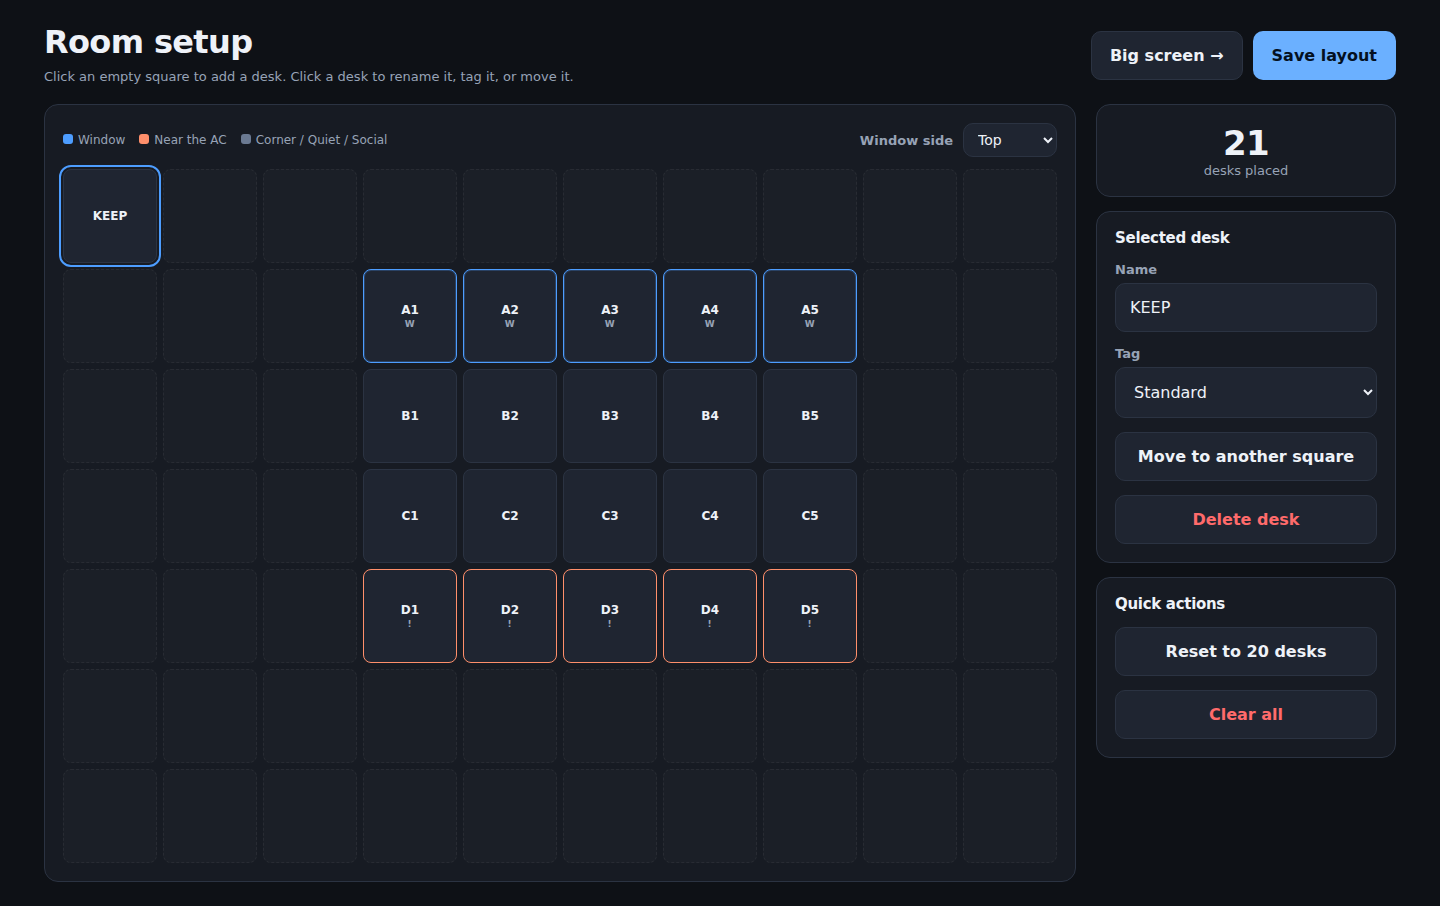
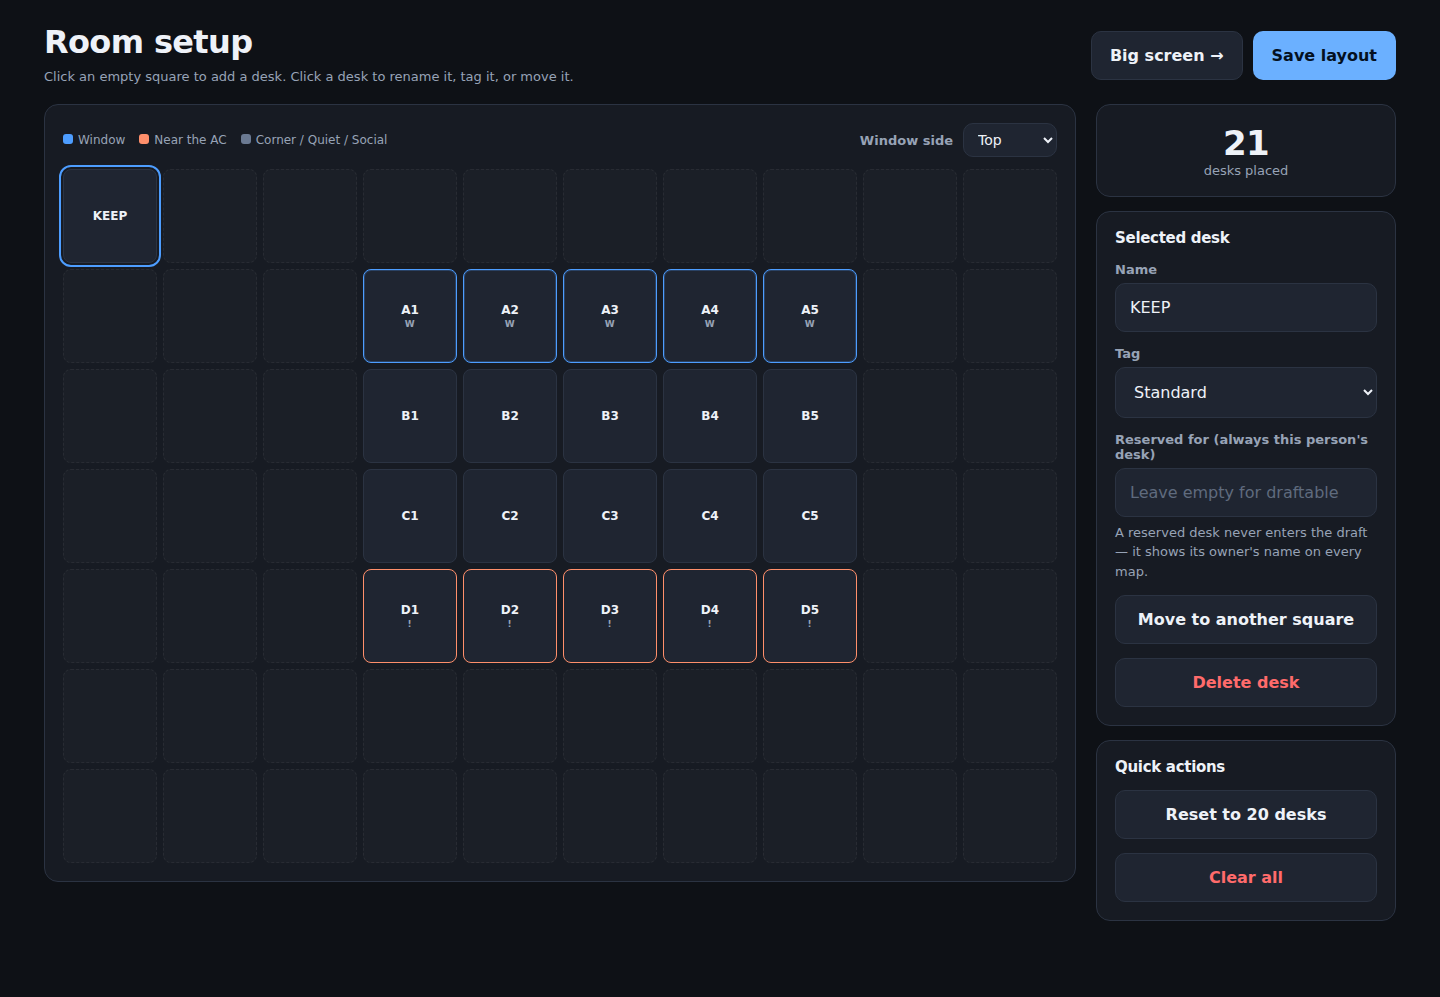
Add a manager passcode and permanently reserved desks
Passcode: with ADMIN_PASSCODE set on the server, saving the layout,
creating rooms, and starting/stopping rehearsal bots require an
x-admin-passcode header (timing-safe compare, 401 with distinct
missing/wrong codes). Unset means open, so LAN and laptop installs stay
frictionless. The setup, host and simulate pages share an adminFetch
helper that prompts once on a 401 and remembers the passcode for the
browser session. Everything a player or the projector needs — joining,
playing, reading layout/room state, the QR — never requires it.

Reserved desks: a desk given a 'Reserved for' name in the setup editor is
permanently that person's. It never enters the draft pool, is excluded
from the seat count and the capacity check, and is drawn occupied in its
owner's name on the editor, the live draft map, the final map, the
exported PNG (with a reserved count in the footer) and the copyable list.

Tested: passcode suite against a server with ADMIN_PASSCODE set (locked
without, distinct wrong-vs-missing, open with, gameplay untouched), and a
reserved-desk draft where the reserved desks are never offered, never
assigned, and capacity is judged on available desks. 199 backend and 103
browser tests green, plus a visual end-to-end run with A5 and C5 reserved.

Claude-Session: https://claude.ai/code/session_019qPQdepLXhdDK3MuUzUKu8

diff --git a/server/index.js b/server/index.js
@@ -7,8 +7,9 @@ import { WebSocketServer } from 'ws';
 import QRCode from 'qrcode';
 import { startBots, stopBots, status as simStatus } from './sim.js';
 import { loadLayout, saveLayout, sanitizeLayout, defaultLayout, GRID, PERKS } from './store.js';
+import { timingSafeEqual } from 'node:crypto';
 import {
-  createRoom, getRoom, addPlayer, removePlayer, broadcast, publicState,
+  createRoom, getRoom, addPlayer, removePlayer, broadcast, publicState, availableDesks,
   normalizeName, nameTaken, sweepRooms, MAX_PLAYERS,
   startSprint, endSprint, recordAnswer, currentQuestion, pendingPlayers,
   startDraft, applyPick, skipTurn
@@ -29,6 +30,26 @@ const MIME = {
 // A room's control token. Whoever created the room drives it; a player who
 // guesses the URL of the host screen cannot kick people out of the lobby.
 const hostTokens = new Map(); // code -> token
+
+// Optional passcode for the manager's actions (saving the layout, creating
+// rooms, driving bots). Unset = open, which is right for a laptop on a LAN;
+// set it when the app lives on a public domain.
+const ADMIN_PASSCODE = process.env.ADMIN_PASSCODE || '';
+
+function checkAdmin(req) {
+  if (!ADMIN_PASSCODE) return 'ok';
+  const given = String(req.headers['x-admin-passcode'] || '');
+  if (!given) return 'passcode_required';
+  const a = Buffer.from(given), b = Buffer.from(ADMIN_PASSCODE);
+  return a.length === b.length && timingSafeEqual(a, b) ? 'ok' : 'bad_passcode';
+}
+
+function requireAdmin(req, res) {
+  const verdict = checkAdmin(req);
+  if (verdict === 'ok') return true;
+  send(res, 401, { error: verdict });
+  return false;
+}
 
 const server = createServer(async (req, res) => {
   try {
@@ -67,6 +88,7 @@ async function handleApi(req, res, url) {
     return send(res, 200, { layout: defaultLayout() });
   }
   if (url.pathname === '/api/layout' && req.method === 'POST') {
+    if (!requireAdmin(req, res)) return;
     const body = await readBody(req);
     return send(res, 200, { layout: await saveLayout(sanitizeLayout(body)) });
   }
@@ -94,6 +116,7 @@ async function handleApi(req, res, url) {
 
   // Rehearsal bots — lets the manager run the whole game solo before game day.
   if (url.pathname === '/api/sim' && req.method === 'POST') {
+    if (!requireAdmin(req, res)) return;
     const body = await readBody(req);
     const room = getRoom(body.code);
     if (!room) return send(res, 404, { error: 'no_such_room' });
@@ -107,6 +130,7 @@ async function handleApi(req, res, url) {
     return send(res, 200, startBots({ port: PORT, code: room.code, count: Math.min(count, space) }));
   }
   if (url.pathname === '/api/sim' && req.method === 'DELETE') {
+    if (!requireAdmin(req, res)) return;
     const body = await readBody(req);
     const room = getRoom(body.code);
     if (!room) return send(res, 404, { error: 'no_such_room' });
@@ -119,6 +143,7 @@ async function handleApi(req, res, url) {
   }
 
   if (url.pathname === '/api/room' && req.method === 'POST') {
+    if (!requireAdmin(req, res)) return;
     const layout = await loadLayout();
     if (layout.desks.length === 0) return send(res, 400, { error: 'no_desks' });
     const room = createRoom(structuredClone(layout));
@@ -290,7 +315,7 @@ function handleHostAction(ws, room, msg) {
 
   if (msg.type === 'host:startDraft') {
     if (room.phase !== 'reveal') return reply(ws, { type: 'error', code: 'not_ready_to_draft' });
-    if (room.layout.desks.length < room.players.size) {
+    if (availableDesks(room.layout).length < room.players.size) {
       return reply(ws, { type: 'error', code: 'not_enough_desks' });
     }
     startDraft(room);

diff --git a/public/setup.js b/public/setup.js
@@ -1,5 +1,7 @@
 // Layout editor. The whole layout lives in one object; every action mutates it
 // and re-renders. At 70 cells that is far cheaper than tracking diffs.
+import { adminFetch } from '/admin.js';
+
 const $ = id => document.getElementById(id);
 
 let grid = { cols: 10, rows: 7 };
@@ -48,6 +50,15 @@ function wireEvents() {
     desk.perk = e.target.value;
     markDirty();
     render();
+  });
+
+  $('deskReserved').addEventListener('input', e => {
+    const desk = selected();
+    if (!desk) return;
+    const name = e.target.value.trim().slice(0, 24);
+    if (name) desk.reservedFor = name; else delete desk.reservedFor;
+    markDirty();
+    renderMap();
   });
 
   $('move').addEventListener('click', () => {
@@ -143,11 +154,15 @@ function renderMap() {
         cells.push(`<div class="cell empty" data-r="${r}" data-c="${c}"></div>`);
         continue;
       }
-      const cls = ['cell', 'desk', desk.id === selectedId ? 'selected' : '', desk.id === movingId ? 'moving' : ''];
+      const cls = ['cell', 'desk', desk.id === selectedId ? 'selected' : '', desk.id === movingId ? 'moving' : '',
+                   desk.reservedFor ? 'reserved' : ''];
       const short = perks[desk.perk]?.short || '';
+      const sub = desk.reservedFor
+        ? `<span class="perk">${esc(desk.reservedFor)}</span>`
+        : short ? `<span class="perk">${esc(short)}</span>` : '';
       cells.push(
-        `<div class="${cls.join(' ')}" data-r="${r}" data-c="${c}" data-perk="${desk.perk}" title="${esc(perks[desk.perk]?.label || '')}">
-           <span>${esc(desk.name)}</span>${short ? `<span class="perk">${esc(short)}</span>` : ''}
+        `<div class="${cls.join(' ')}" data-r="${r}" data-c="${c}" data-perk="${desk.perk}" title="${esc(desk.reservedFor ? `Reserved for ${desk.reservedFor}` : perks[desk.perk]?.label || '')}">
+           <span>${esc(desk.name)}</span>${sub}
          </div>`
       );
     }
@@ -168,6 +183,7 @@ function renderSidebar() {
   if (desk) {
     if ($('deskName').value !== desk.name) $('deskName').value = desk.name;
     $('deskPerk').value = desk.perk;
+    if ($('deskReserved').value !== (desk.reservedFor || '')) $('deskReserved').value = desk.reservedFor || '';
     $('move').textContent = movingId ? 'Cancel move' : 'Move to another square';
   }
 }
@@ -180,7 +196,7 @@ function markDirty() {
 async function save() {
   $('save').disabled = true;
   try {
-    const res = await fetch('/api/layout', {
+    const res = await adminFetch('/api/layout', {
       method: 'POST',
       headers: { 'content-type': 'application/json' },
       body: JSON.stringify(layout)

diff --git a/public/mapimage.js b/public/mapimage.js
@@ -13,6 +13,7 @@ const COLORS = {
   ink: '#eef2f8', dim: '#97a3b6',
   chosen: '#253044', chosenLine: '#3d4a63',
   auto: '#2a2733', autoLine: '#4a4358',
+  reserved: '#2c2838', reservedLine: '#7a6f96',
   window: '#4d9dff', meh: '#ff8f6b', accent: '#4d9dff'
 };
 
@@ -49,10 +50,11 @@ export function drawMap(canvas, layout, assignments) {
   for (const desk of desks) {
     const x = PAD + (desk.c - b.minC) * (CELL + GAP);
     const y = HEADER + (desk.r - b.minR) * (CELL + GAP);
-    const seat = seatOf.get(desk.id);
+    const seat = desk.reservedFor ? { name: desk.reservedFor, reserved: true } : seatOf.get(desk.id);
 
-    ctx.fillStyle = seat ? (seat.auto ? COLORS.auto : COLORS.chosen) : COLORS.panel;
-    ctx.strokeStyle = desk.perk === 'window' ? COLORS.window
+    ctx.fillStyle = seat ? (seat.reserved ? COLORS.reserved : seat.auto ? COLORS.auto : COLORS.chosen) : COLORS.panel;
+    ctx.strokeStyle = seat?.reserved ? COLORS.reservedLine
+      : desk.perk === 'window' ? COLORS.window
       : desk.perk === 'meh' ? COLORS.meh
       : seat ? (seat.auto ? COLORS.autoLine : COLORS.chosenLine) : COLORS.line;
     ctx.lineWidth = 2;
@@ -74,7 +76,11 @@ export function drawMap(canvas, layout, assignments) {
 
   ctx.fillStyle = COLORS.dim;
   ctx.font = '500 15px Inter, system-ui, sans-serif';
-  ctx.fillText(`${assignments.length} seated · window side: ${layout.windowSide}`, PAD, height - 22);
+  const reserved = desks.filter(d => d.reservedFor).length;
+  ctx.fillText(
+    `${assignments.length} seated${reserved ? ` · ${reserved} reserved` : ''} · window side: ${layout.windowSide}`,
+    PAD, height - 22
+  );
 
   return canvas;
 }
@@ -122,6 +128,7 @@ export function seatingList(layout, assignments) {
     .slice()
     .sort((a, b) => a.r - b.r || a.c - b.c)
     .map(d => {
+      if (d.reservedFor) return `${d.name}\t${d.reservedFor} (reserved)`;
       const seat = seatOf.get(d.id);
       return `${d.name}\t${seat ? seat.name : '—'}`;
     })

diff --git a/server/room.js b/server/room.js
@@ -187,7 +187,7 @@ export function startDraft(room) {
     order,
     index: 0,
     assignments: new Map(),   // deskId -> { playerId, name, auto }
-    autoTail: autoTailCount(room.layout.desks.length, order.length),
+    autoTail: autoTailCount(availableDesks(room.layout).length, order.length),
     current: null,
     timer: null
   };
@@ -196,8 +196,11 @@ export function startDraft(room) {
   return room.draft;
 }
 
+// A desk with a permanent owner never enters the game.
+export const availableDesks = layout => layout.desks.filter(d => !d.reservedFor);
+
 export const remainingDeskIds = room =>
-  room.layout.desks.filter(d => !room.draft.assignments.has(d.id)).map(d => d.id);
+  availableDesks(room.layout).filter(d => !room.draft.assignments.has(d.id)).map(d => d.id);
 
 // Starts the next person's turn, or closes the draft out when the only people
 // left are the tail who have nothing meaningful to choose between.
@@ -318,7 +321,7 @@ export function publicState(room) {
     code: room.code,
     phase: room.phase,
     layout: room.layout,
-    seatCount: room.layout.desks.length,
+    seatCount: availableDesks(room.layout).length,
     sprint: room.phase === 'sprint' ? sprintSummary(room) : null,
     results: room.results,
     questionTotal: room.sprint ? room.sprint.questions.length : null,

diff --git a/public/simulate.js b/public/simulate.js
@@ -1,4 +1,6 @@
 // Rehearsal control panel: start/stop bots and watch what they're up to.
+import { adminFetch } from '/admin.js';
+
 const $ = id => document.getElementById(id);
 
 let pollTimer = null;
@@ -26,7 +28,7 @@ async function start() {
 
   $('startBtn').disabled = true;
   try {
-    const res = await fetch('/api/sim', {
+    const res = await adminFetch('/api/sim', {
       method: 'POST',
       headers: { 'content-type': 'application/json' },
       body: JSON.stringify({ code, count: Number($('countInput').value) })
@@ -44,7 +46,7 @@ async function start() {
 async function stop() {
   const code = $('codeInput').value.trim();
   if (code.length !== 4) return;
-  const res = await fetch('/api/sim', {
+  const res = await adminFetch('/api/sim', {
     method: 'DELETE',
     headers: { 'content-type': 'application/json' },
     body: JSON.stringify({ code })
@@ -78,6 +80,8 @@ function render(data) {
 
 function explain(code) {
   return {
+    passcode_required: 'This server needs the manager passcode.',
+    bad_passcode: 'Wrong passcode.',
     no_such_room: 'No room with that code — create one on the big screen first.',
     already_started: 'That game has already started. Bots can only join the lobby.',
     room_full: 'The room is already full.',

diff --git a/public/setup.html b/public/setup.html
@@ -12,6 +12,8 @@
   .cell.empty:hover { background: rgba(77,157,255,.12); border-color: rgba(77,157,255,.4); }
   .desk.selected { outline: 2px solid var(--accent); outline-offset: 2px; }
   .desk.moving { opacity: .4; }
+  .desk.reserved { background: #3a3446; border-color: #7a6f96; }
+  .desk.reserved .perk { color: #b9a9e0; }
   .count { font-size: 34px; font-weight: 700; letter-spacing: -.02em; }
   .count.short { color: var(--warn); }
   @media (max-width: 900px) { .setup-grid { grid-template-columns: 1fr; } }
@@ -68,6 +70,11 @@
         <div>
           <label class="field-label" for="deskPerk">Tag</label>
           <select id="deskPerk"></select>
+        </div>
+        <div>
+          <label class="field-label" for="deskReserved">Reserved for (always this person's desk)</label>
+          <input type="text" id="deskReserved" maxlength="24" placeholder="Leave empty for draftable">
+          <p class="muted small" style="margin-top:6px">A reserved desk never enters the draft — it shows its owner's name on every map.</p>
         </div>
         <button id="move">Move to another square</button>
         <button id="delete" class="danger">Delete desk</button>

diff --git a/public/admin.js b/public/admin.js
@@ -1,0 +1,24 @@
+// Passcode plumbing for the manager pages. The server only asks for a
+// passcode when ADMIN_PASSCODE is set on it, so this stays invisible on an
+// open (laptop/LAN) install: the first request succeeds and nobody is asked.
+const KEY = 'seatdraft.passcode';
+
+export async function adminFetch(url, options = {}) {
+  for (;;) {
+    const headers = { ...(options.headers || {}) };
+    const saved = sessionStorage.getItem(KEY);
+    if (saved) headers['x-admin-passcode'] = saved;
+
+    const res = await fetch(url, { ...options, headers });
+    if (res.status !== 401) return res;
+
+    const body = await res.json().catch(() => ({}));
+    const entered = prompt(
+      body.error === 'bad_passcode'
+        ? 'Wrong passcode — try again:'
+        : 'This action needs the manager passcode:'
+    );
+    if (entered === null) return res;   // they cancelled; let the caller show the 401
+    sessionStorage.setItem(KEY, entered.trim());
+  }
+}

diff --git a/public/host.html b/public/host.html
@@ -142,6 +142,8 @@
   .map .desk[data-perk="social"] { border-color: #6b7a92; }
   .map .desk.taken { background: #33415c; border-color: #55688c; }
   .map .desk.taken.auto { background: #3a3446; border-color: #605577; }
+  .map .desk.reserved { background: #2c3038; border-color: #7a6f96; }
+  .map .desk.reserved .who { color: #b9a9e0; }
   .map .desk.offered {
     border-color: var(--accent); background: rgba(77,157,255,.22);
     box-shadow: 0 0 0 2px rgba(77,157,255,.35);
@@ -317,6 +319,7 @@
           <div class="legend">
             <span><i style="background:#55688c"></i>chosen</span>
             <span><i style="background:#605577"></i>auto-assigned</span>
+            <span><i style="background:transparent; box-shadow:inset 0 0 0 2px #7a6f96"></i>reserved</span>
             <span><i style="background:transparent; box-shadow:inset 0 0 0 2px var(--window)"></i>window</span>
           </div>
         </div>

diff --git a/public/host.js b/public/host.js
@@ -2,6 +2,7 @@
 // room the laptop driving the projector is the only authority that matters.
 import { connect, errorText } from '/net.js';
 import { renderMap, PERK_SHORT } from '/map.js';
+import { adminFetch } from '/admin.js';
 import { downloadMapImage, seatingList } from '/mapimage.js';
 
 const $ = id => document.getElementById(id);
@@ -122,7 +123,12 @@ async function roomStillExists(code) {
 async function createRoom() {
   $('createBtn').disabled = true;
   try {
-    const res = await fetch('/api/room', { method: 'POST' });
+    const res = await adminFetch('/api/room', { method: 'POST' });
+    if (res.status === 401) {
+      warn('This server needs the manager passcode to create a room.');
+      $('createBtn').disabled = false;
+      return;
+    }
     const data = await res.json();
     if (!res.ok) throw new Error(data.error);
     session = { code: data.code, hostToken: data.hostToken };

diff --git a/public/map.js b/public/map.js
@@ -36,10 +36,14 @@ export function renderMap(el, layout, { assignments = [], offered = [], taken = 
       const desk = byCell.get(`${r}:${c}`);
       if (!desk) { cells.push('<div class="cell empty"></div>'); continue; }
 
-      const seat = seatOf.get(desk.id);
+      // A reserved desk is permanently its owner's — drawn occupied from the start.
+      const seat = desk.reservedFor
+        ? { name: desk.reservedFor, reserved: true }
+        : seatOf.get(desk.id);
       const classes = ['cell', 'desk'];
       if (seat) classes.push('taken');
       if (seat?.auto) classes.push('auto');
+      if (seat?.reserved) classes.push('reserved');
       if (offeredSet.has(desk.id)) classes.push('offered');
       if (taken === desk.id) classes.push('just-taken');
 

diff --git a/server/store.js b/server/store.js
@@ -71,10 +71,12 @@ export function sanitizeLayout(input) {
     if (seen.has(cell)) continue;
     seen.add(cell);
     const name = String(d?.name ?? '').trim().slice(0, 12) || `${r + 1}-${c + 1}`;
+    const reservedFor = String(d?.reservedFor ?? '').replace(/\s+/g, ' ').trim().slice(0, 24);
     desks.push({
       id: typeof d?.id === 'string' && d.id ? d.id.slice(0, 24) : `d${desks.length + 1}`,
       name, r, c,
-      perk: Object.hasOwn(PERKS, d?.perk) ? d.perk : 'none'
+      perk: Object.hasOwn(PERKS, d?.perk) ? d.perk : 'none',
+      ...(reservedFor ? { reservedFor } : {})
     });
     if (desks.length >= 60) break;
   }

diff --git a/README.md b/README.md
@@ -82,6 +82,10 @@ screen highlights them on the map and the room heckles. Tap one to claim it. If 
 clock runs out you get one of them anyway, so a phone in someone's pocket never
 stalls twenty people — and the host can skip a turn outright.
 
+**Reserved desks.** In `/setup`, give a desk a "Reserved for" name and it becomes
+permanently that person's: it never enters the draft, doesn't count toward
+capacity, and shows its owner on every map including the exported PNG.
+
 **Absent people are handled cleanly.** Add anyone who's out that day via the big
 screen's Manage panel ("add someone without a phone"). They score 0, rank at the
 bottom, and when the draft reaches them they're seated **instantly** from the
